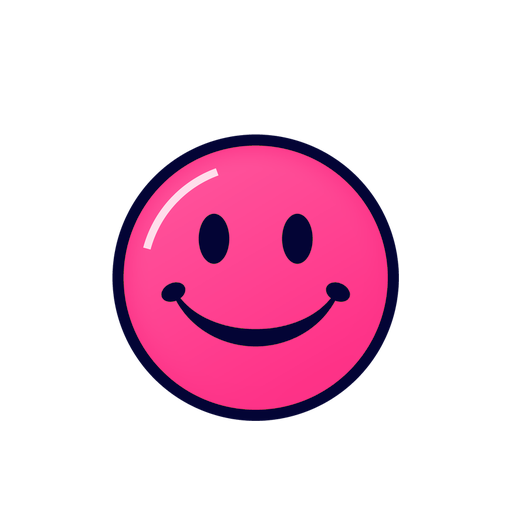
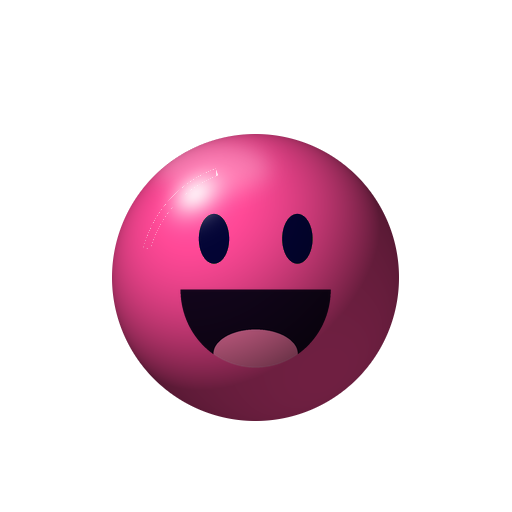
OG verities: add Cruelty, shaded 3D art for all four, v4.1.1 update log
- Cruelty (red) joins Verity, Lovity and Falsity in the OG tier - added
  last in the pet list so every save keeps its numbering; the OG card
  background gets a 4th (red) band. 68 verities now.
- Their Phase 1-3 art was flat emoji discs with a thick navy outline; on
  the 3D pet balls (Explore, battles) that outline showed as a dark
  stripe across the ball whenever it turned. New art: lit spheres in each
  colour with the same faces, no outline. Lovity has its open, laughing
  mouth. Cruelty gets a red Monster form and clean ball (the 3D monster's
  colours). Made by tools/og_art.py from the originals kept in
  tools/og_src/, so it can be re-run.
- "What's new" entry for v4.1.1 (EN + PT) covering this update's fixes.
- Screenshot tool: an Explore shot with OG pets equipped.

Claude-Session: https://claude.ai/code/session_01VqvCS3viJ5spsfYLXYsxAJ

Changed region(s): [[0.2188, 0.25, 0.7812, 0.8438]]

diff --git a/tools/og_art.py b/tools/og_art.py
@@ -1,0 +1,158 @@
+"""Builds the OG verities' art (Verity, Lovity, Falsity, Cruelty) as shaded 3D balls.
+
+The originals were flat emoji discs with a thick navy outline; on the game's 3D pet balls that outline showed as a
+dark stripe across the middle whenever the pet turned sideways. This keeps the faces (taken from Verity's own
+Phase 1-3 art), drops the outline and lights each ball like a sphere, in each OG's colour. Lovity gets its open,
+laughing mouth. Also makes Cruelty's Monster art and its "clean" ball (no face, used to colour the 3D monster).
+
+    pip install pillow && python3 tools/og_art.py
+"""
+
+import colorsys
+import math
+
+from PIL import Image, ImageDraw, ImageFilter
+
+PETS = "icons/pets"
+SRC = "tools/og_src"  # the original flat art the faces come from (never overwritten)
+SIZE = 512
+CX, CY, R = 255.5, 277.5, 143.5  # where every verity's ball sits in its 512x512 art
+FACE_R = R * 0.9  # the old outline started here
+SRC_BODY = (255, 190, 45)  # Verity's yellow, to un-mix the faces' anti-aliased edges
+
+COLORS = {
+    "verity": (255, 196, 48),
+    "lovity": (255, 72, 150),
+    "falsity": (48, 154, 255),
+    "cruelty": (222, 30, 38),
+}
+
+LIGHT = (-0.5, -0.62, 0.61)
+_l = math.sqrt(sum(c * c for c in LIGHT))
+LIGHT = tuple(c / _l for c in LIGHT)
+# where the shiny highlight sits: up by the top-left rim, clear of the eyes (it washed the left eye out)
+HALF = (-0.42, -0.58, 0.0)
+HALF = (HALF[0], HALF[1], math.sqrt(1 - HALF[0] ** 2 - HALF[1] ** 2))
+
+
+def face_layer(src, keep=lambda x, y: True):
+    """The face drawn on Verity's art (eyes, mouth, teeth), as an RGBA layer with the yellow taken out."""
+    px = src.load()
+    out = Image.new("RGBA", (SIZE, SIZE), (0, 0, 0, 0))
+    op = out.load()
+    for y in range(SIZE):
+        for x in range(SIZE):
+            if math.hypot(x + 0.5 - CX, y + 0.5 - CY) > FACE_R or not keep(x, y):
+                continue
+            r, g, b, a = px[x, y]
+            if a == 0:
+                continue
+            h, s, v = colorsys.rgb_to_hsv(r / 255, g / 255, b / 255)
+            # the old painted-on shine at the top left isn't part of the face
+            if s < 0.3 and v > 0.8 and y < CY and x < CX - 40:
+                continue
+            yellow = min(r, g) - b
+            alpha = max(0.0, min(1.0, (110 - yellow) / 100))
+            if alpha <= 0.02:
+                continue
+            # un-mix the yellow body out of the edge pixels so there's no yellow halo on other colours
+            col = [max(0, min(255, round((c - (1 - alpha) * bc) / alpha))) for c, bc in zip((r, g, b), SRC_BODY)]
+            op[x, y] = (col[0], col[1], col[2], round(alpha * 255))
+    return out
+
+
+def lovity_mouth(layer):
+    """Lovity laughs: a big open mouth with its tongue out (drawn 4x and scaled down, for smooth edges)."""
+    k = 4
+    big = Image.new("RGBA", (SIZE * k, SIZE * k), (0, 0, 0, 0))
+    d = ImageDraw.Draw(big)
+    w, top, depth = 150, CY + 12, 78
+    box = [(CX - w / 2) * k, (top - depth) * k, (CX + w / 2) * k, (top + depth) * k]
+    d.pieslice(box, 0, 180, fill=(20, 6, 30, 255))
+    d.ellipse([(CX - 42) * k, (top + depth - 38) * k, (CX + 42) * k, (top + depth + 10) * k], fill=(255, 120, 170, 255))
+    # keep the tongue inside the mouth
+    mask = Image.new("L", big.size, 0)
+    ImageDraw.Draw(mask).pieslice(box, 0, 180, fill=255)
+    tongue_cut = Image.new("RGBA", big.size, (0, 0, 0, 0))
+    tongue_cut.paste(big, (0, 0), mask)
+    small = tongue_cut.resize((SIZE, SIZE), Image.LANCZOS)
+    layer.alpha_composite(small)
+    return layer
+
+
+def ball(color, face):
+    """A lit sphere in `color` with `face` painted on it (and lit with it)."""
+    out = Image.new("RGBA", (SIZE, SIZE), (0, 0, 0, 0))
+    op = out.load()
+    fp = face.load()
+    for y in range(SIZE):
+        for x in range(SIZE):
+            dx, dy = (x + 0.5 - CX) / R, (y + 0.5 - CY) / R
+            d2 = dx * dx + dy * dy
+            dist = math.sqrt(d2) * R
+            cover = max(0.0, min(1.0, R - dist + 0.5))  # anti-aliased edge
+            if cover <= 0:
+                continue
+            nz = math.sqrt(max(0.0, 1 - min(d2, 1.0)))
+            n = (dx, dy, nz)
+            diff = max(0.0, n[0] * LIGHT[0] + n[1] * LIGHT[1] + n[2] * LIGHT[2])
+            shade = (0.42 + 0.7 * diff) * (0.78 + 0.22 * nz)
+            # a little warm light bouncing back in from the bottom right
+            bounce = max(0.0, 0.4 * dx + 0.55 * dy) ** 2 * 0.18
+            fr, fg, fb, fa = fp[x, y]
+            fa /= 255
+            base = [c * (1 - fa) + fc * fa for c, fc in zip(color, (fr, fg, fb))]
+            col = [c * shade + c * bounce for c in base]
+            spec = max(0.0, n[0] * HALF[0] + n[1] * HALF[1] + n[2] * HALF[2]) ** 60 * 0.85
+            col = [c + (255 - c) * spec for c in col]
+            op[x, y] = tuple(max(0, min(255, round(c))) for c in col) + (round(255 * cover),)
+    # a soft gloss band near the top left, like the other verities' art
+    gloss = Image.new("L", (SIZE, SIZE), 0)
+    ImageDraw.Draw(gloss).ellipse([CX - R * 0.7, CY - R * 0.95, CX + R * 0.1, CY - R * 0.58], fill=70)
+    gloss = gloss.filter(ImageFilter.GaussianBlur(10))
+    white = Image.new("RGBA", (SIZE, SIZE), (255, 255, 255, 0))
+    disc = Image.new("L", (SIZE, SIZE), 0)
+    ImageDraw.Draw(disc).ellipse([CX - R, CY - R, CX + R, CY + R], fill=255)
+    white.putalpha(Image.composite(gloss, Image.new("L", (SIZE, SIZE), 0), disc))
+    out.alpha_composite(white)
+    return out
+
+
+def recolor_red(img, sat_min=0.12):
+    """Cruelty's red, from Lovity's pink art (same shading, hue moved to red)."""
+    img = img.convert("RGBA")
+    px = img.load()
+    for y in range(img.height):
+        for x in range(img.width):
+            r, g, b, a = px[x, y]
+            if a == 0:
+                continue
+            h, s, v = colorsys.rgb_to_hsv(r / 255, g / 255, b / 255)
+            if s < sat_min:
+                continue
+            r2, g2, b2 = colorsys.hsv_to_rgb(0.995, min(1.0, s * 1.05), v * 0.92)
+            px[x, y] = (round(r2 * 255), round(g2 * 255), round(b2 * 255), a)
+    return img
+
+
+def main():
+    faces = {}
+    for phase in (1, 2, 3):
+        src = Image.open(f"{SRC}/verity_p{phase}.png").convert("RGBA")
+        faces[phase] = face_layer(src)
+    # Lovity keeps Verity's eyes, with its own laughing mouth
+    lovity_face = lovity_mouth(face_layer(Image.open(f"{SRC}/verity_p1.png").convert("RGBA"), keep=lambda x, y: y < CY - 5))
+    for name, color in COLORS.items():
+        for phase in (1, 2, 3):
+            face = lovity_face if (name == "lovity" and phase == 1) else faces[phase]
+            path = f"{PETS}/{name}.png" if phase == 1 else f"{PETS}/phases/{name}_p{phase}.png"
+            ball(color, face).save(path, optimize=True)
+            print("wrote", path)
+    # Cruelty's Monster art and clean ball, from Lovity's
+    recolor_red(Image.open(f"{SRC}/lovity_p4.png")).save(f"{PETS}/phases/cruelty_p4.png", optimize=True)
+    recolor_red(Image.open(f"{SRC}/lovity_clean.png")).save(f"{PETS}/clean/cruelty.png", optimize=True)
+    print("wrote cruelty_p4 + clean/cruelty")
+
+
+if __name__ == "__main__":
+    main()

diff --git a/src/i18n_pt.rs b/src/i18n_pt.rs
@@ -1038,6 +1038,11 @@ pub const PT: &[(&str, &str)] = &[
     ("Caught it!", "Apanhaste-o!"),
     ("It got away...", "Escapou..."),
     ("Check your Verity Pets in the Bag.", "Vê os teus Verity Pets na Mochila."),
+    ("Fusing works as it should now: 5 Phase 1 make 1 Phase 2, 5 Phase 2 make 1 Phase 3, and 4 Phase 3 make 1 Monster. Having exactly 5 (or 4) is enough. Fuse All goes all the way up and skips locked pets.", "A fusão funciona como deve: 5 Fase 1 fazem 1 Fase 2, 5 Fase 2 fazem 1 Fase 3, e 4 Fase 3 fazem 1 Monstro. Ter exatamente 5 (ou 4) chega. O Fundir Tudo vai até ao fim e não toca nos pets trancados."),
+    ("New OG verity: Cruelty. The OG verities are now round 3D balls like every other verity (no more stripe across them in Explore), and Lovity laughs.", "Novo verity OG: Cruelty. Os verities OG são agora bolas 3D como todos os outros (já não têm aquela risca no Explorar), e o Lovity ri-se."),
+    ("Explore: I turns the camera left and O right. Walls and buildings no longer disappear when you turn it.", "Explorar: o I roda a câmara para a esquerda e o O para a direita. As paredes e os prédios já não desaparecem quando a rodas."),
+    ("Battle picker, trades and the friend photo see all your verities again (they showed none after the last update). Trading locked pets is no longer possible.", "A escolha da equipa, as trocas e a foto de amigo voltam a ver todos os teus verities (não mostravam nenhum depois da última atualização). Já não dá para trocar pets trancados."),
+    ("Opening your account on another device closes it on the old one. Options: Animations is now Potato Mode, and the Cutscenes list folds away.", "Abrir a tua conta noutro dispositivo fecha-a no antigo. Opções: as Animações são agora o Modo Batata, e a lista de Cutscenes fecha-se."),
     ("Explore: catching a Verity Pet now fights it, like a normal battle, instead of grabbing it outright. Win to catch it; lose or run and it gets away. (New players with no Verities yet still get an instant catch.)", "Explorar: apanhar um Verity Pet agora significa lutar com ele, como numa batalha normal, em vez de o apanhares logo. Ganha para o apanhar; perde ou foge e ele escapa. (Jogadores novos sem Verities ainda continuam a apanhá-lo logo.)"),
     // v4.0: Explore, Verity Pets, the Battle hub
     ("%s opens at level %d", "%s abre no nível %d"),

diff --git a/src/core/data.rs b/src/core/data.rs
@@ -75,11 +75,11 @@ pub const RARITY_TIERS: [Tier; 17] = [
     Tier { key: "absoluto", name: "Absolute", color: Color::rgb(18, 14, 10), color2: Some(Color::rgb(255, 198, 58)), text: WHITE, one_in: 5.0e+17, income: 90000000000.0 },
     Tier { key: "primordial", name: "Primordial", color: Color::rgb(26, 10, 8), color2: Some(Color::rgb(255, 112, 30)), text: WHITE, one_in: 5.0e+19, income: 900000000000.0 },
     Tier { key: "paradoxo", name: "Paradox", color: Color::rgb(246, 246, 250), color2: Some(Color::rgb(14, 14, 20)), text: Color::rgb(120, 60, 220), one_in: 5.0e+21, income: 9000000000000.0 },
-    // v4.0: the original three - Verity (the game's own face), Lovity and Falsity
+    // v4.0: the originals - Verity (the game's own face), Lovity, Falsity, and (v4.1.1) Cruelty
     Tier { key: "og", name: "OG", color: Color::rgb(255, 196, 40), color2: Some(Color::rgb(255, 70, 150)), text: Color::rgb(10, 8, 50), one_in: 5.0e+23, income: 90000000000000.0 },
 ];
 
-pub const PET_DEFS: [(&str, &str); 67] = [
+pub const PET_DEFS: [(&str, &str); 68] = [
     ("comum", "Levity"),
     ("incomum", "Humility"),
     ("raro", "Amity"),
@@ -147,6 +147,8 @@ pub const PET_DEFS: [(&str, &str); 67] = [
     ("og", "Verity"),
     ("og", "Lovity"),
     ("og", "Falsity"),
+    // always last: a pet's place in this list is what saves store
+    ("og", "Cruelty"),
 ];
 
 pub const TIER_SECRET: usize = 7;
@@ -218,7 +220,7 @@ pub fn rarities() -> &'static [Rarity] {
     })
 }
 
-pub const N_PETS: usize = 67;
+pub const N_PETS: usize = 68;
 
 /// PET_ORDER: display order (by tier, then index)
 pub fn pet_order() -> &'static [usize] {

diff --git a/src/main.rs b/src/main.rs
@@ -958,6 +958,23 @@ fn shots(dir: &str) {
             g.explore.cam_yaw = std::f64::consts::PI; // looking back the way Steve came from
             g.draw(m);
             save(&g, "n_explore_cam_turned");
+            // the OG verities as 3D balls (their art used to leave a dark stripe across the ball)
+            {
+                let og: Vec<usize> = (0..core::data::rarities().len()).filter(|&i| core::data::rarities()[i].key == "og").collect();
+                let (pets0, eq0) = (g.state.explore.pets.clone(), g.state.explore.equipped.clone());
+                g.state.explore.equipped.clear();
+                for &p in og.iter().skip(1) {
+                    g.state.explore.add_pet(VerityPet { pet: p, dim: 4, stars: 5, luck: true, boost: 100.0 });
+                    let i = g.state.explore.pets.len() - 1;
+                    g.state.explore.toggle_equip(i);
+                }
+                g.explore.cam_yaw = 0.9;
+                g.tick_explore(0.3);
+                g.draw(m);
+                save(&g, "n_explore_og");
+                g.state.explore.pets = pets0;
+                g.state.explore.equipped = eq0;
+            }
             g.explore.cam_yaw = 0.0;
             g.explore.overlay = "wardrobe";
             g.draw(m);

diff --git a/src/game/updatelog.rs b/src/game/updatelog.rs
@@ -11,6 +11,13 @@ use crate::ui::fonts::wrap_text;
 use std::rc::Rc;
 
 pub const UPDATE_LOG: &[(&str, &str, &[&str])] = &[
+    ("v4.1.1", "2026-09-26", &[
+        "Fusing works as it should now: 5 Phase 1 make 1 Phase 2, 5 Phase 2 make 1 Phase 3, and 4 Phase 3 make 1 Monster. Having exactly 5 (or 4) is enough. Fuse All goes all the way up and skips locked pets.",
+        "New OG verity: Cruelty. The OG verities are now round 3D balls like every other verity (no more stripe across them in Explore), and Lovity laughs.",
+        "Explore: I turns the camera left and O right. Walls and buildings no longer disappear when you turn it.",
+        "Battle picker, trades and the friend photo see all your verities again (they showed none after the last update). Trading locked pets is no longer possible.",
+        "Opening your account on another device closes it on the old one. Options: Animations is now Potato Mode, and the Cutscenes list folds away.",
+    ]),
     ("v4.0.1", "2026-09-25", &[
         "Explore: catching a Verity Pet now fights it, like a normal battle, instead of grabbing it outright. Win to catch it; lose or run and it gets away. (New players with no Verities yet still get an instant catch.)",
     ]),

diff --git a/src/ui/drawing.rs b/src/ui/drawing.rs
@@ -538,9 +538,9 @@ pub fn draw_rarity_bg(surface: &mut Surface, rect_local: Rect, rarity: &Rarity, 
                 "primordial" => paint_primordial_bg(&mut bg, c1, c2, w, h),
                 "paradoxo" => paint_paradox_bg(&mut bg, c1, c2, w, h),
                 "og" => {
-                    // the three originals: yellow, pink and blue bands
-                    let bands = [Color::rgb(255, 196, 40), Color::rgb(255, 70, 150), Color::rgb(40, 140, 255)];
-                    let bw = w / 3 + 1;
+                    // the four originals: yellow, pink, blue and red bands
+                    let bands = [Color::rgb(255, 196, 40), Color::rgb(255, 70, 150), Color::rgb(40, 140, 255), Color::rgb(222, 30, 38)];
+                    let bw = w / bands.len() as i32 + 1;
                     for (i, c) in bands.iter().enumerate() {
                         let x0 = i as i32 * bw;
                         draw::polygon(&mut bg, *c, &[(x0 - h / 3, h), (x0 + bw - h / 3, h), (x0 + bw + h / 3, 0), (x0 + h / 3, 0)], 0);
